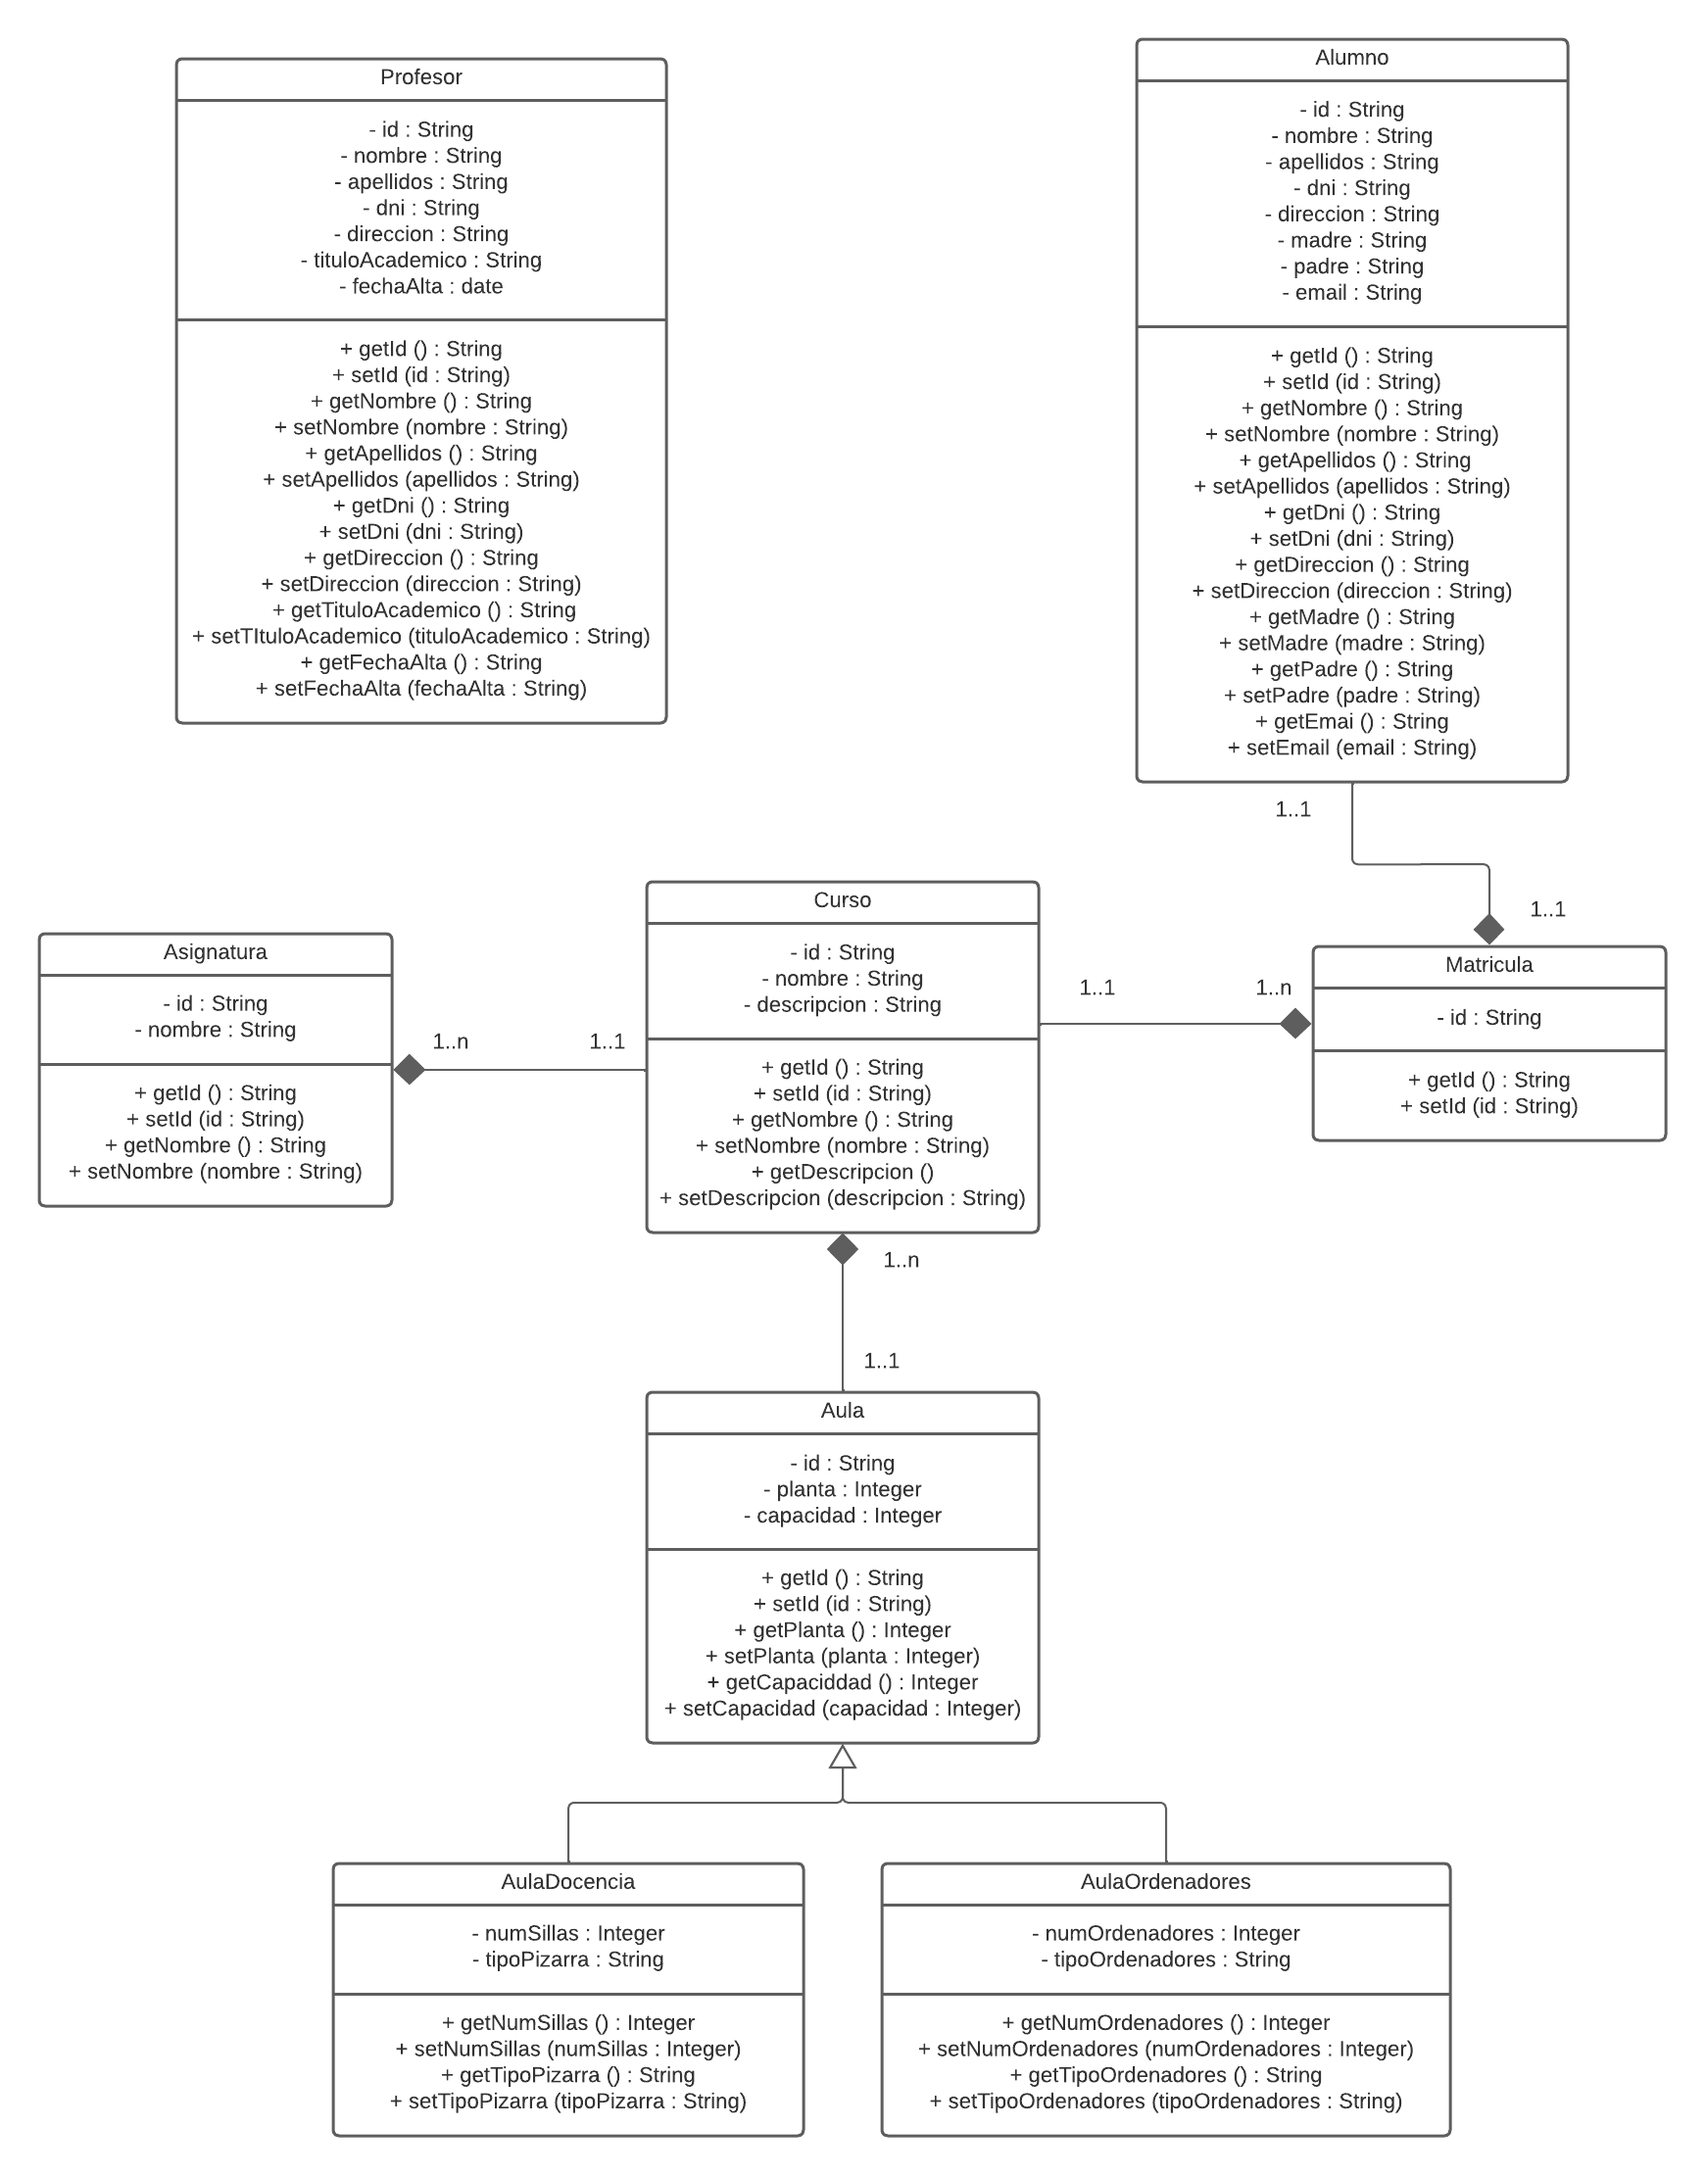
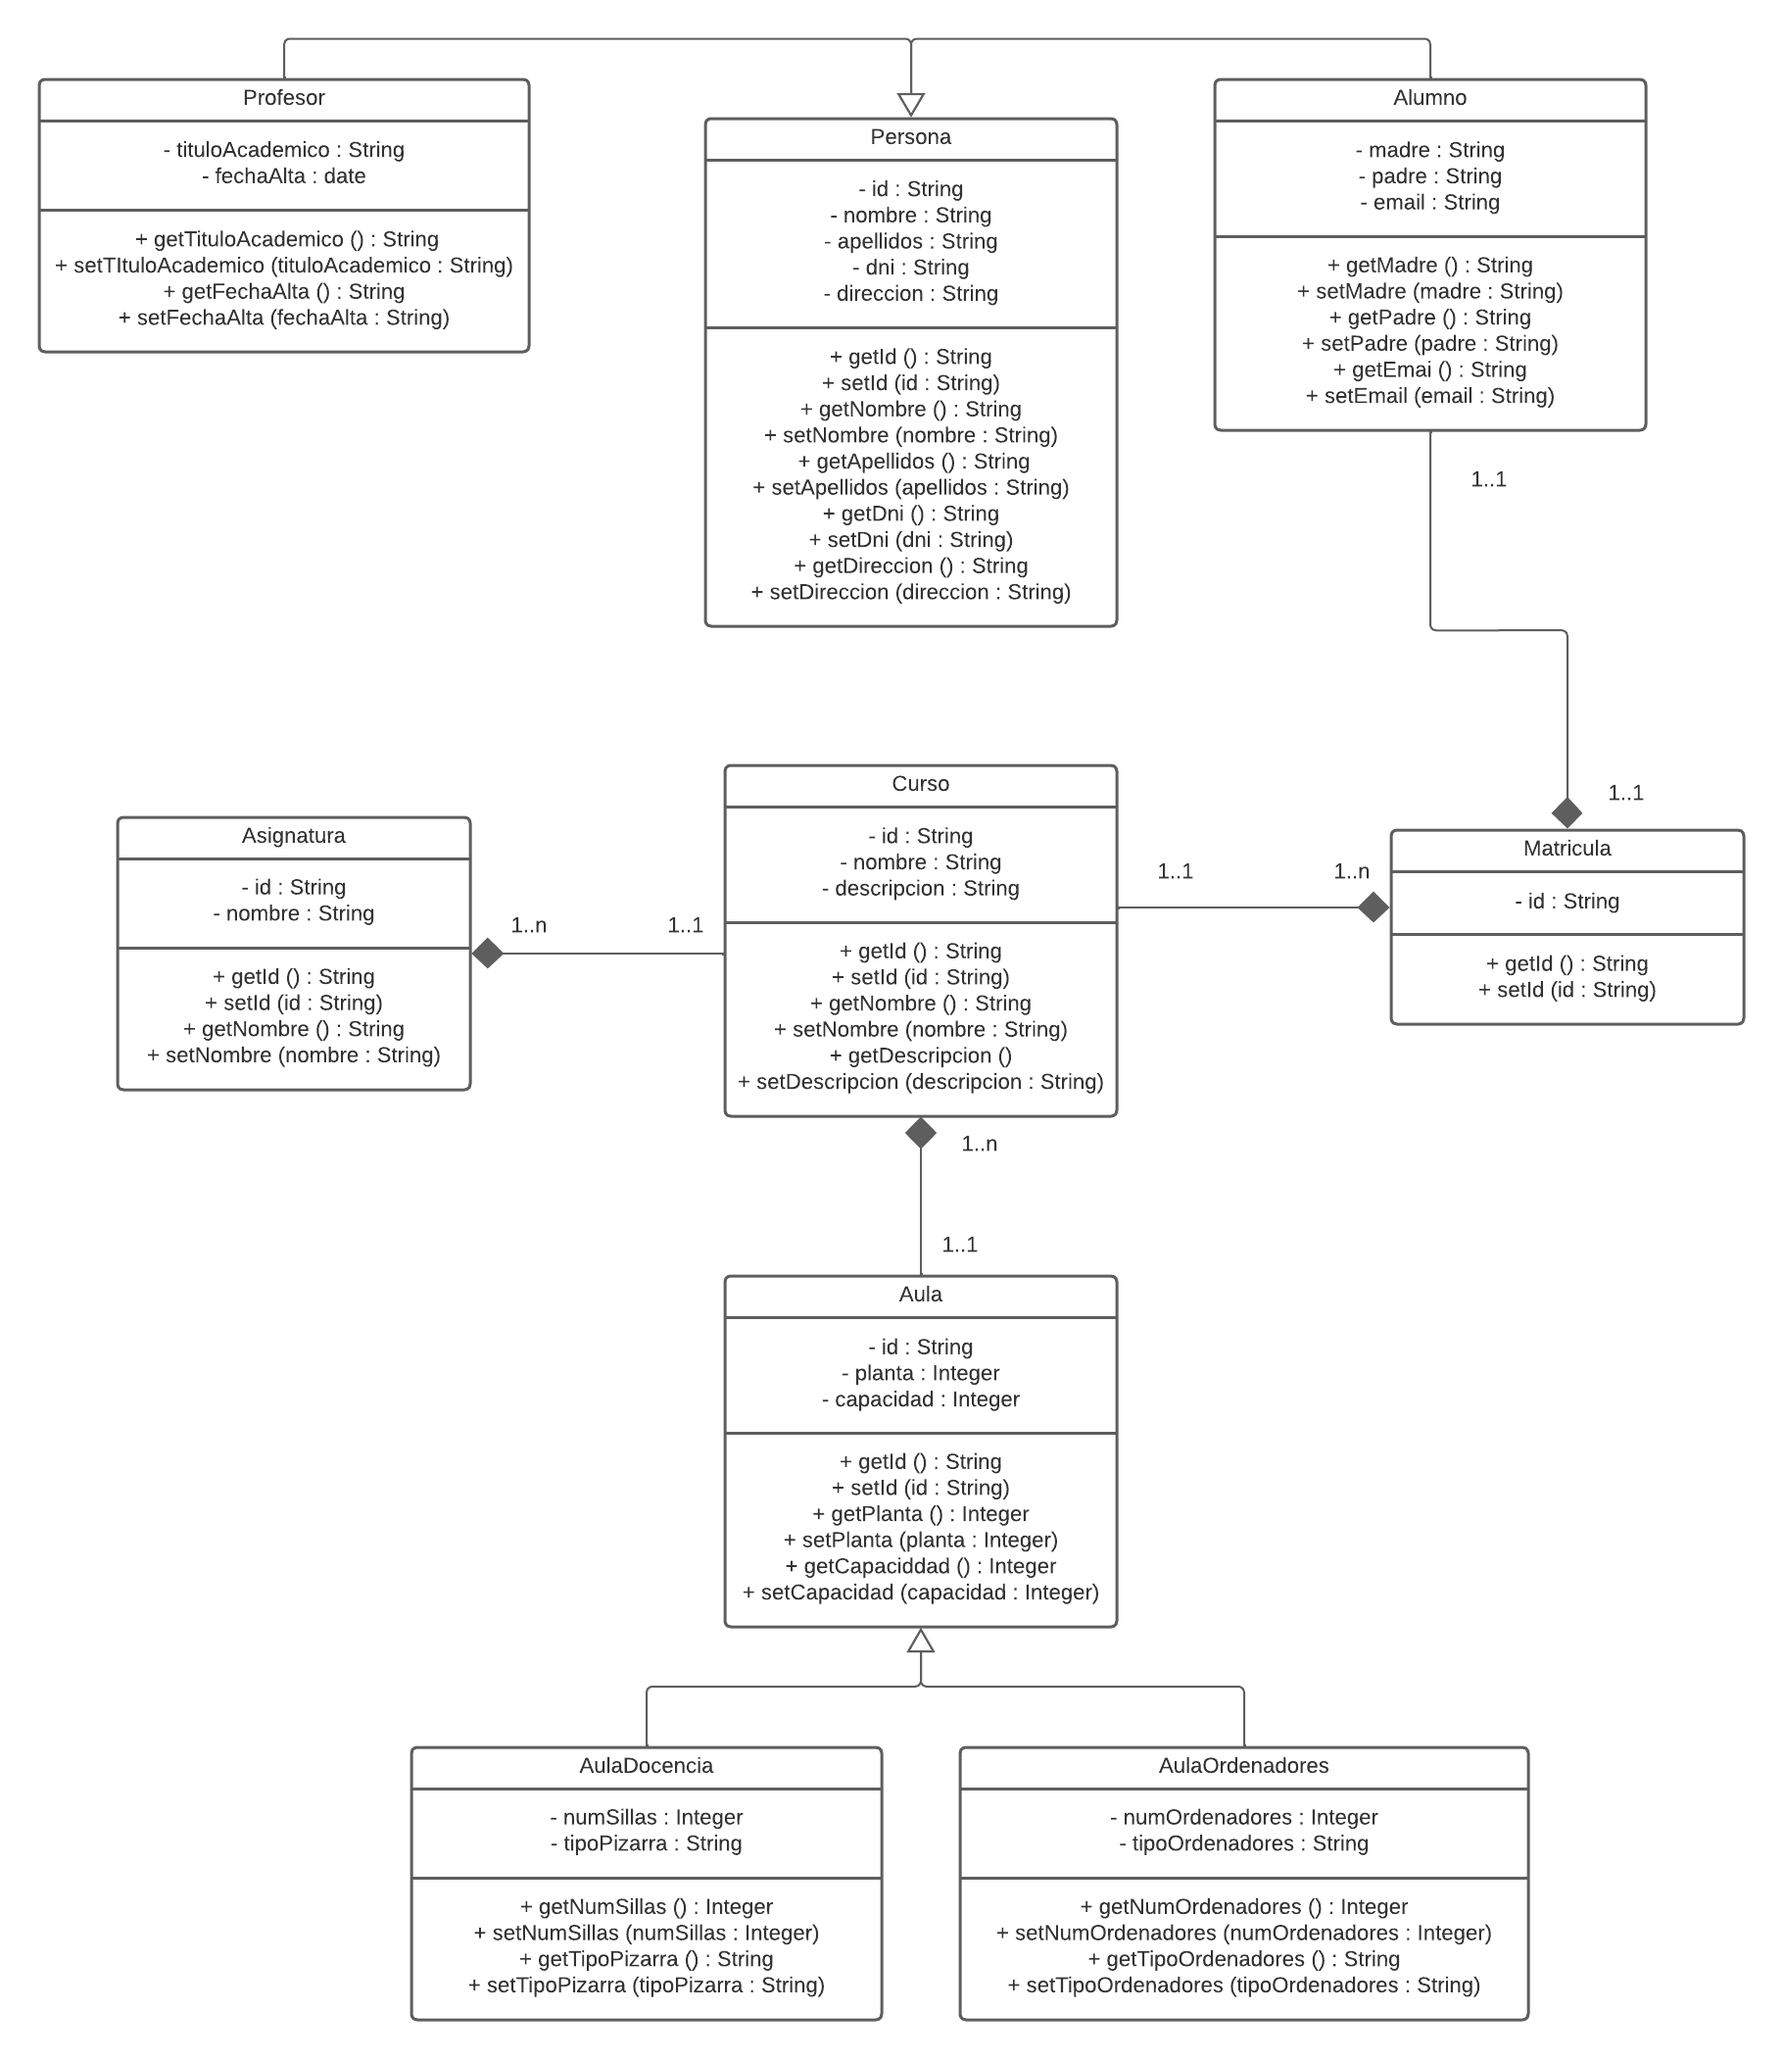
persona

diff --git a/src/com/iesam/domain/models/Profesor.java b/src/com/iesam/domain/models/Profesor.java
@@ -2,56 +2,12 @@ package com.iesam.domain.models;
 
 import java.util.Date;
 
-public class Profesor {
-    private String id;
-    private String nombre;
-    private String apellidos;
-    private String dni;
-    private String direccion;
+public class Profesor extends Persona{
     private String tituloAcademico;
     private Date fechaAlta;
 
 
     //Getters and Setters
-    public String getId() {
-        return id;
-    }
-
-    public void setId(String id) {
-        this.id = id;
-    }
-
-    public String getNombre() {
-        return nombre;
-    }
-
-    public void setNombre(String nombre) {
-        this.nombre = nombre;
-    }
-
-    public String getApellidos() {
-        return apellidos;
-    }
-
-    public void setApellidos(String apellidos) {
-        this.apellidos = apellidos;
-    }
-
-    public String getDni() {
-        return dni;
-    }
-
-    public void setDni(String dni) {
-        this.dni = dni;
-    }
-
-    public String getDireccion() {
-        return direccion;
-    }
-
-    public void setDireccion(String direccion) {
-        this.direccion = direccion;
-    }
 
     public String getTituloAcademico() {
         return tituloAcademico;

diff --git a/src/com/iesam/domain/models/Alumno.java b/src/com/iesam/domain/models/Alumno.java
@@ -1,56 +1,12 @@
 package com.iesam.domain.models;
 
-public class Alumno {
-    private String id;
-    private String nombre;
-    private String apellidos;
-    private String dni;
-    private String direccion;
+public class Alumno extends Persona{
     private String madre;
     private String padre;
     private String email;
 
 
     //Getters and Setters
-    public String getId() {
-        return id;
-    }
-
-    public void setId(String id) {
-        this.id = id;
-    }
-
-    public String getNombre() {
-        return nombre;
-    }
-
-    public void setNombre(String nombre) {
-        this.nombre = nombre;
-    }
-
-    public String getApellidos() {
-        return apellidos;
-    }
-
-    public void setApellidos(String apellidos) {
-        this.apellidos = apellidos;
-    }
-
-    public String getDni() {
-        return dni;
-    }
-
-    public void setDni(String dni) {
-        this.dni = dni;
-    }
-
-    public String getDireccion() {
-        return direccion;
-    }
-
-    public void setDireccion(String direccion) {
-        this.direccion = direccion;
-    }
 
     public String getMadre() {
         return madre;

diff --git a/src/com/iesam/domain/models/Persona.java b/src/com/iesam/domain/models/Persona.java
@@ -1,0 +1,50 @@
+package com.iesam.domain.models;
+
+public class Persona {
+
+    private String id;
+    private String nombre;
+    private String apellidos;
+    private String dni;
+    private String direccion;
+
+    public String getId() {
+        return id;
+    }
+
+    public void setId(String id) {
+        this.id = id;
+    }
+
+    public String getNombre() {
+        return nombre;
+    }
+
+    public void setNombre(String nombre) {
+        this.nombre = nombre;
+    }
+
+    public String getApellidos() {
+        return apellidos;
+    }
+
+    public void setApellidos(String apellidos) {
+        this.apellidos = apellidos;
+    }
+
+    public String getDni() {
+        return dni;
+    }
+
+    public void setDni(String dni) {
+        this.dni = dni;
+    }
+
+    public String getDireccion() {
+        return direccion;
+    }
+
+    public void setDireccion(String direccion) {
+        this.direccion = direccion;
+    }
+}
